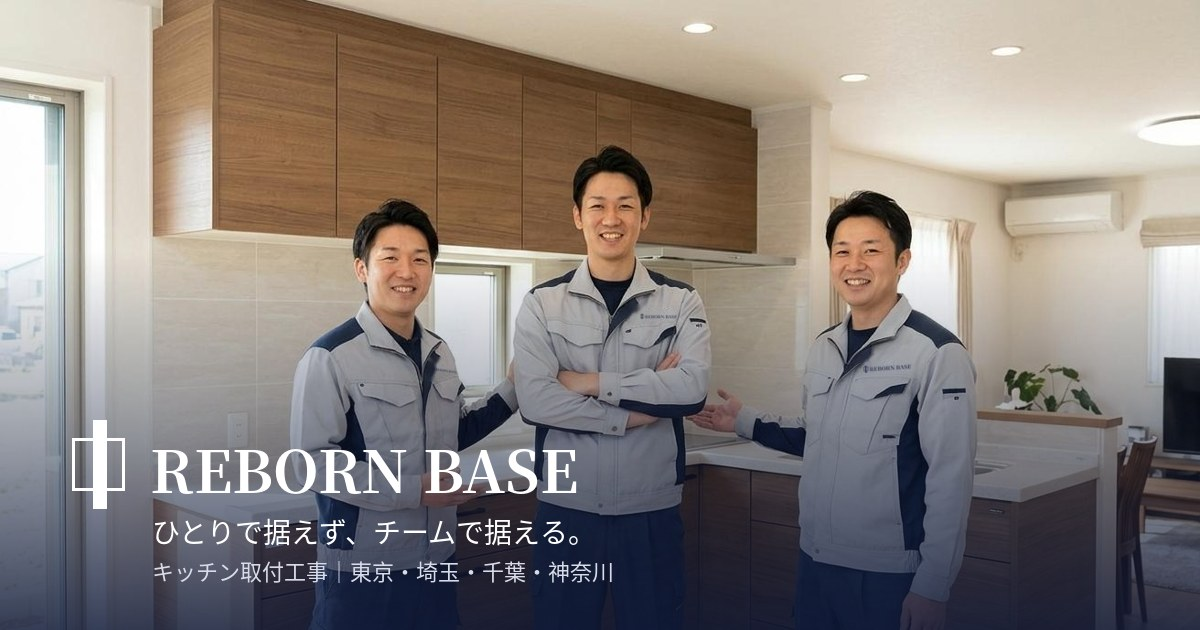
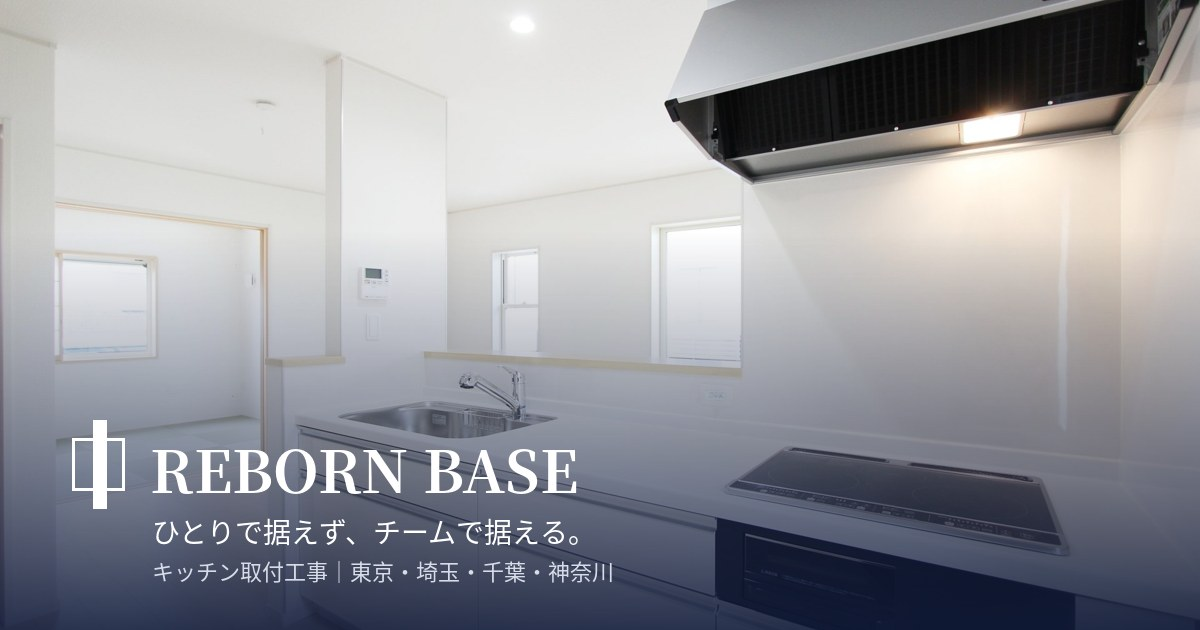
トップを写真ACの実写キッチンに差し替え、左上の文字が読めるよう影を調整、OGPも更新
Claude-Session: https://claude.ai/code/session_01UawtAUAXxX8t9ey8Cs25Ve

diff --git a/index.html b/index.html
@@ -21,7 +21,7 @@
 <link rel="preconnect" href="https://fonts.googleapis.com">
 <link rel="preconnect" href="https://fonts.gstatic.com" crossorigin>
 <link href="https://fonts.googleapis.com/css2?family=Noto+Sans+JP:wght@400;500;700&family=Shippori+Mincho+B1:wght@500;700&family=Inter:wght@600;700&display=swap" rel="stylesheet">
-<link rel="stylesheet" href="css/style.css?v=202610291709">
+<link rel="stylesheet" href="css/style.css?v=202610291855">
 </head>
 <body class="home">
 <svg width="0" height="0" style="position:absolute"><symbol id="logo" viewBox="0 0 240 120">
@@ -40,9 +40,9 @@
 </header>
 <div class="kv_area">
   <div class="kv_home_list">
-    <div class="kv kv01"><div class="kv_out"><div class="kv_list"><span class="kv_a" style="background-image:url(img/hero1.jpg),url(img/hero1.jpg)"></span></div></div></div>
-    <div class="kv kv02"><div class="kv_out"><div class="kv_list"><span class="kv_a" style="background-image:url(img/hero2.jpg),url(img/hero2.jpg)"></span></div></div></div>
-    <div class="kv kv03"><div class="kv_out"><div class="kv_list"><span class="kv_a" style="background-image:url(img/w-level.jpg),url(img/w-level.jpg)"></span></div></div></div>
+    <div class="kv kv01"><div class="kv_out"><div class="kv_list"><span class="kv_a" style="background-image:url(img/kitchen1.jpg),url(img/kitchen1.jpg)"></span></div></div></div>
+    <div class="kv kv02"><div class="kv_out"><div class="kv_list"><span class="kv_a" style="background-image:url(img/kitchen1.jpg),url(img/kitchen1.jpg)"></span></div></div></div>
+    <div class="kv kv03"><div class="kv_out"><div class="kv_list"><span class="kv_a" style="background-image:url(img/kitchen1.jpg),url(img/kitchen1.jpg)"></span></div></div></div>
   </div>
   <div class="mark"><svg viewBox="0 0 240 120"><use href="#logo"/></svg></div>
 </div>

diff --git a/css/style.css b/css/style.css
@@ -55,7 +55,7 @@ header{position:fixed;left:0;top:0;width:var(--nav);height:100%;z-index:100;disp
 .kv .kv_list{width:100%;height:100%;overflow:hidden;transform:scale(1.08);transition:6s ease-in-out}
 .kv.show .kv_list{transform:scale(1)}
 .kv_a{display:block;width:100%;height:100%;background:#44443f no-repeat center center;background-size:cover}
-.kv_home_list::after{content:"";position:absolute;left:0;top:0;bottom:0;width:320px;background:linear-gradient(90deg,rgba(0,0,0,.45),rgba(0,0,0,0));z-index:25;pointer-events:none}
+.kv_home_list::after{content:"";position:absolute;left:0;top:0;bottom:0;width:420px;background:linear-gradient(90deg,rgba(10,20,45,.62) 0%,rgba(10,20,45,.45) 45%,rgba(10,20,45,0) 100%);z-index:25;pointer-events:none}
 .mark{position:absolute;right:74px;bottom:55px;width:170px;z-index:30}
 .copy_h{position:fixed;right:86px;top:80px;z-index:60;writing-mode:vertical-rl;font-size:5rem;line-height:1.5;letter-spacing:.08em;font-weight:500;color:var(--ink);transition:.6s ease-in}
 .copy_h.move{position:absolute}

diff --git a/about.html b/about.html
@@ -21,7 +21,7 @@
 <link rel="preconnect" href="https://fonts.googleapis.com">
 <link rel="preconnect" href="https://fonts.gstatic.com" crossorigin>
 <link href="https://fonts.googleapis.com/css2?family=Noto+Sans+JP:wght@400;500;700&family=Shippori+Mincho+B1:wght@500;700&family=Inter:wght@600;700&display=swap" rel="stylesheet">
-<link rel="stylesheet" href="css/style.css?v=202610291709">
+<link rel="stylesheet" href="css/style.css?v=202610291855">
 </head>
 <body class="sub">
 <svg width="0" height="0" style="position:absolute"><symbol id="logo" viewBox="0 0 240 120">

diff --git a/contact.html b/contact.html
@@ -21,7 +21,7 @@
 <link rel="preconnect" href="https://fonts.googleapis.com">
 <link rel="preconnect" href="https://fonts.gstatic.com" crossorigin>
 <link href="https://fonts.googleapis.com/css2?family=Noto+Sans+JP:wght@400;500;700&family=Shippori+Mincho+B1:wght@500;700&family=Inter:wght@600;700&display=swap" rel="stylesheet">
-<link rel="stylesheet" href="css/style.css?v=202610291709">
+<link rel="stylesheet" href="css/style.css?v=202610291855">
 </head>
 <body class="sub">
 <svg width="0" height="0" style="position:absolute"><symbol id="logo" viewBox="0 0 240 120">

diff --git a/recruit.html b/recruit.html
@@ -21,7 +21,7 @@
 <link rel="preconnect" href="https://fonts.googleapis.com">
 <link rel="preconnect" href="https://fonts.gstatic.com" crossorigin>
 <link href="https://fonts.googleapis.com/css2?family=Noto+Sans+JP:wght@400;500;700&family=Shippori+Mincho+B1:wght@500;700&family=Inter:wght@600;700&display=swap" rel="stylesheet">
-<link rel="stylesheet" href="css/style.css?v=202610291709">
+<link rel="stylesheet" href="css/style.css?v=202610291855">
 </head>
 <body class="sub">
 <svg width="0" height="0" style="position:absolute"><symbol id="logo" viewBox="0 0 240 120">

diff --git a/works.html b/works.html
@@ -21,7 +21,7 @@
 <link rel="preconnect" href="https://fonts.googleapis.com">
 <link rel="preconnect" href="https://fonts.gstatic.com" crossorigin>
 <link href="https://fonts.googleapis.com/css2?family=Noto+Sans+JP:wght@400;500;700&family=Shippori+Mincho+B1:wght@500;700&family=Inter:wght@600;700&display=swap" rel="stylesheet">
-<link rel="stylesheet" href="css/style.css?v=202610291709">
+<link rel="stylesheet" href="css/style.css?v=202610291855">
 </head>
 <body class="sub">
 <svg width="0" height="0" style="position:absolute"><symbol id="logo" viewBox="0 0 240 120">
